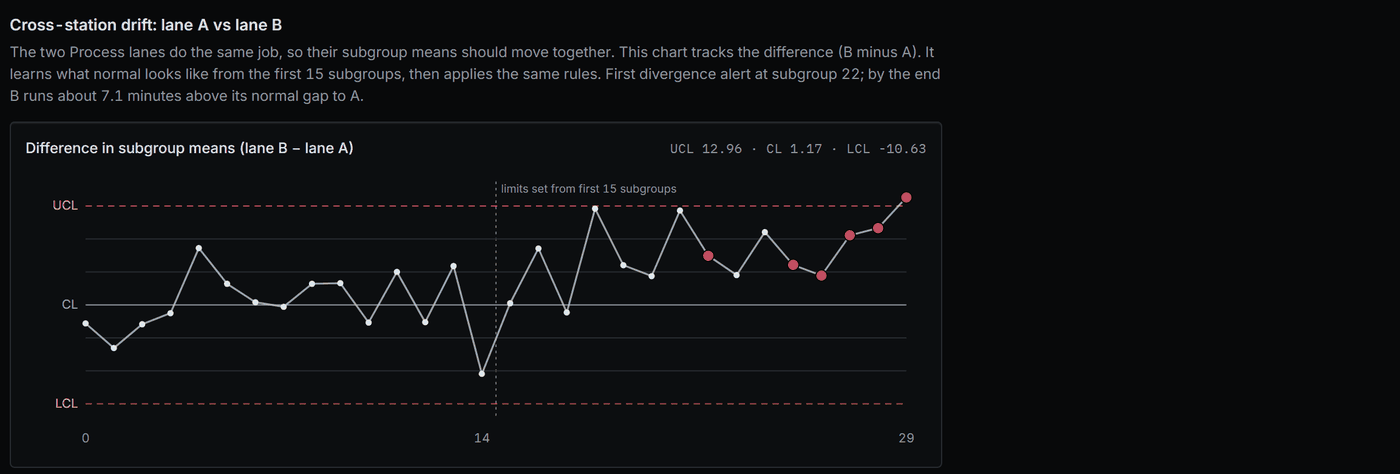
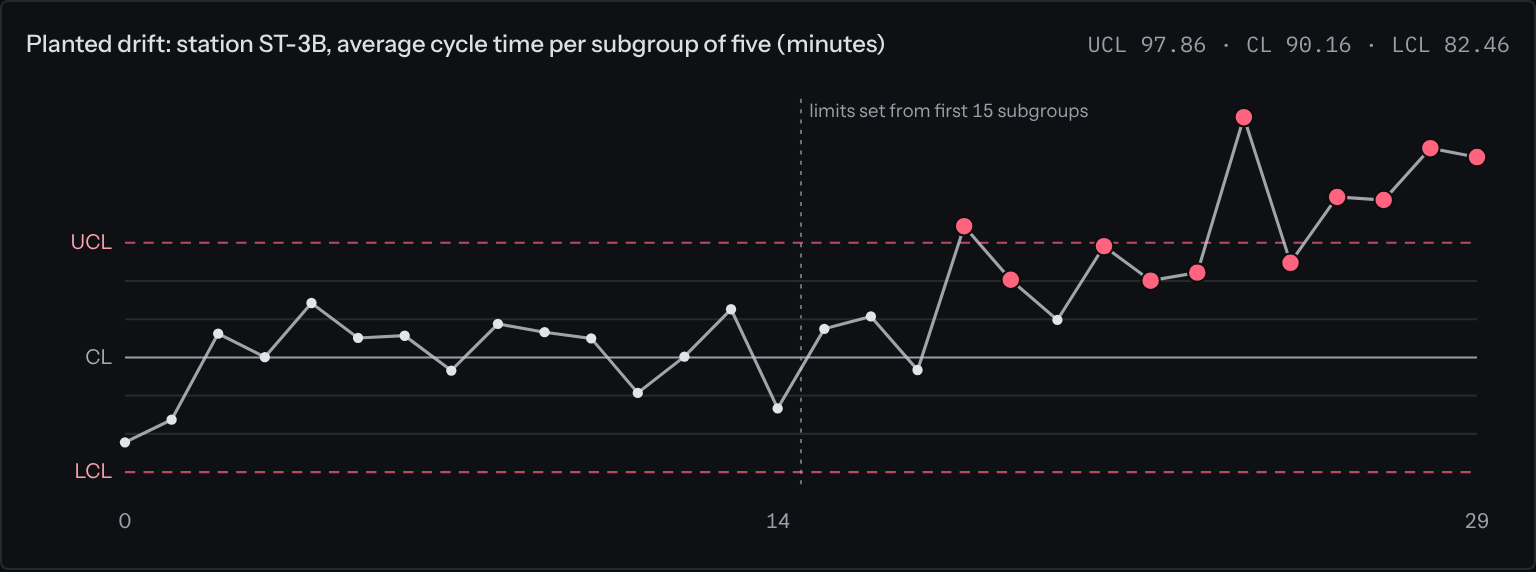
Regenerate OpsAudit case-study charts from the new demo and use one subgroup number (#7)
Claude-Session: https://claude.ai/code/session_012FPgiyy9kCMpvbqsYyKmgc

diff --git a/projects/opsaudit.html b/projects/opsaudit.html
@@ -89,19 +89,19 @@
 
   <p><strong>Audit.</strong> 92 qualifying cases, 68 logged, 24 missed. Grouped into fixes and ranked by cost at risk, the largest fix, an outage backfill, covers 8 of the 24 misses.</p>
   <figure class="shot">
-    <img src="img/opsaudit-fixes.png" width="1400" height="534" loading="lazy" alt="The ranked fix queue: one row per fix, with cause, number of misses, labor hours, cost at risk, effort and payback. The top fix, an outage, accounts for eight misses.">
+    <img src="img/opsaudit-fixes.png" width="2120" height="760" loading="lazy" alt="The ranked fix queue: one row per fix, with cause, number of misses, labor hours, cost at risk, effort and payback. The top fix, an outage, accounts for eight misses.">
     <figcaption>The ranked fix queue (top of the list). One row per fix, with its cause, misses, hours, cost at risk and payback. Dollar figures come from editable, deliberately low assumptions.</figcaption>
   </figure>
 
-  <p><strong>Statistical process control.</strong> A drift planted in one of two parallel process lanes alarmed three subgroups after it started. The chart on the difference between the lanes, shown below, flagged it at subgroup 22. A single-subgroup spike produced exactly one alert.</p>
+  <p><strong>Statistical process control.</strong> I planted a slow drift in one of two parallel stations, starting at subgroup 15. With control limits learned from the first 15 subgroups and then held fixed, the chart raised its first alert at subgroup 18, <strong>three subgroups</strong> after the drift began. A single-subgroup spike produced exactly one alert.</p>
   <figure class="shot">
-    <img src="img/opsaudit-drift.png" width="1400" height="474" loading="lazy" alt="A control chart of the difference between two process lanes. The points stay near the center line for the first 15 subgroups, then drift upward and trigger red alerts.">
-    <figcaption>Drift being caught. The control limits are learned from the first 15 subgroups and then held fixed. Red points are alerts, and the first one fires at subgroup 22.</figcaption>
+    <img src="img/opsaudit-drift.png" width="1536" height="572" loading="lazy" alt="A control chart of one station's average cycle time. The points stay near the center line for the first 15 subgroups, then drift upward and trigger red alerts.">
+    <figcaption>Drift being caught. The limits are set from the first 15 subgroups and then held fixed. Red points are alerts, and the first one fires at subgroup 18.</figcaption>
   </figure>
 
   <p><strong>Classifier.</strong> Each procedure definition is messy text, and the classifier has to name what it watches. There are 33 specific check types, such as queue time, time since maintenance, an out-of-control alert left open, a test result with no decision, a hold with no owner, and repeated autoload failures. On the 413-record test set, the random forest named the specific check 89.1% of the time. Hand-written rules with multilingual keywords scored 66.3%, and always guessing the most common class scored 2.9%.</p>
   <figure class="shot">
-    <img src="img/opsaudit-confusion.png" width="1047" height="449" loading="lazy" alt="A confusion matrix for six kinds of check. Most counts sit on the diagonal, for example 150 of 175 interval checks were identified correctly.">
+    <img src="img/opsaudit-confusion.png" width="1036" height="440" loading="lazy" alt="A confusion matrix for six kinds of check. Most counts sit on the diagonal, for example 150 of 175 interval checks were identified correctly.">
     <figcaption>Where the model gets confused. Decision tree, naming the kind of check (6 kinds) on the 413 held-out records: 355 correct, or 86.0%. Green is right, red is a mix-up.</figcaption>
   </figure>
 
